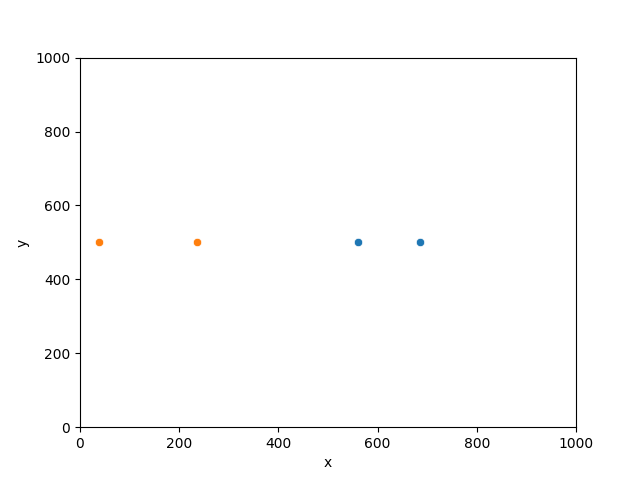
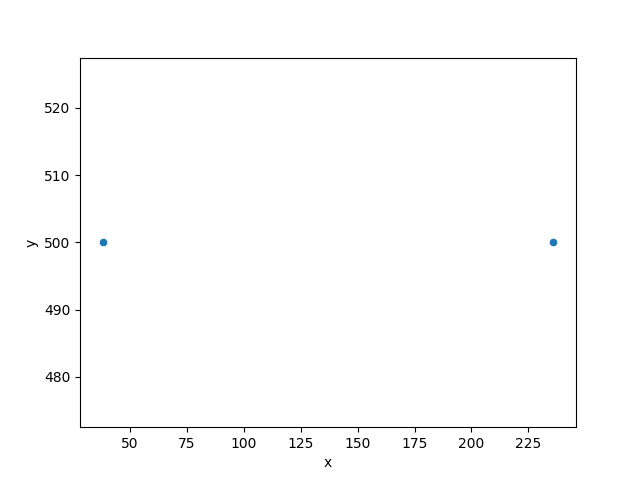
v1
done

diff --git a/input generator/tools.py b/input generator/tools.py
@@ -39,10 +39,11 @@ def draw_points(X, Y, width,height, file_name):
         df = pd.DataFrame(dict(x=X, y=Y))
         print(df.head())
         lm =sns.scatterplot(data=df, x="x", y="y")
-        lm.set(xlim=(0, width))
-        lm.set(ylim=(0, height))
+        #lm.set(xlim=(0, width))
+        #lm.set(ylim=(0, height))
         #plt.show()
-        plt.savefig(file_name)     
+        plt.savefig(file_name)
+        plt.clf()     
         """
 if __name__ == "__main__":
     tips = sns.load_dataset("tips")

diff --git a/input generator/oSpannerIG.py b/input generator/oSpannerIG.py
@@ -10,8 +10,8 @@ import numpy as np
 import branch_gen
 
 nt_data_path = 'D:/GIT/OSpanner/instances'
-#instance_sizes = [2,4,8,16]
-instance_sizes = [2]
+instance_sizes = [2,4,8,16]
+#instance_sizes = [2]
 W = 1000
 H = 1000
 instance_number = 2
